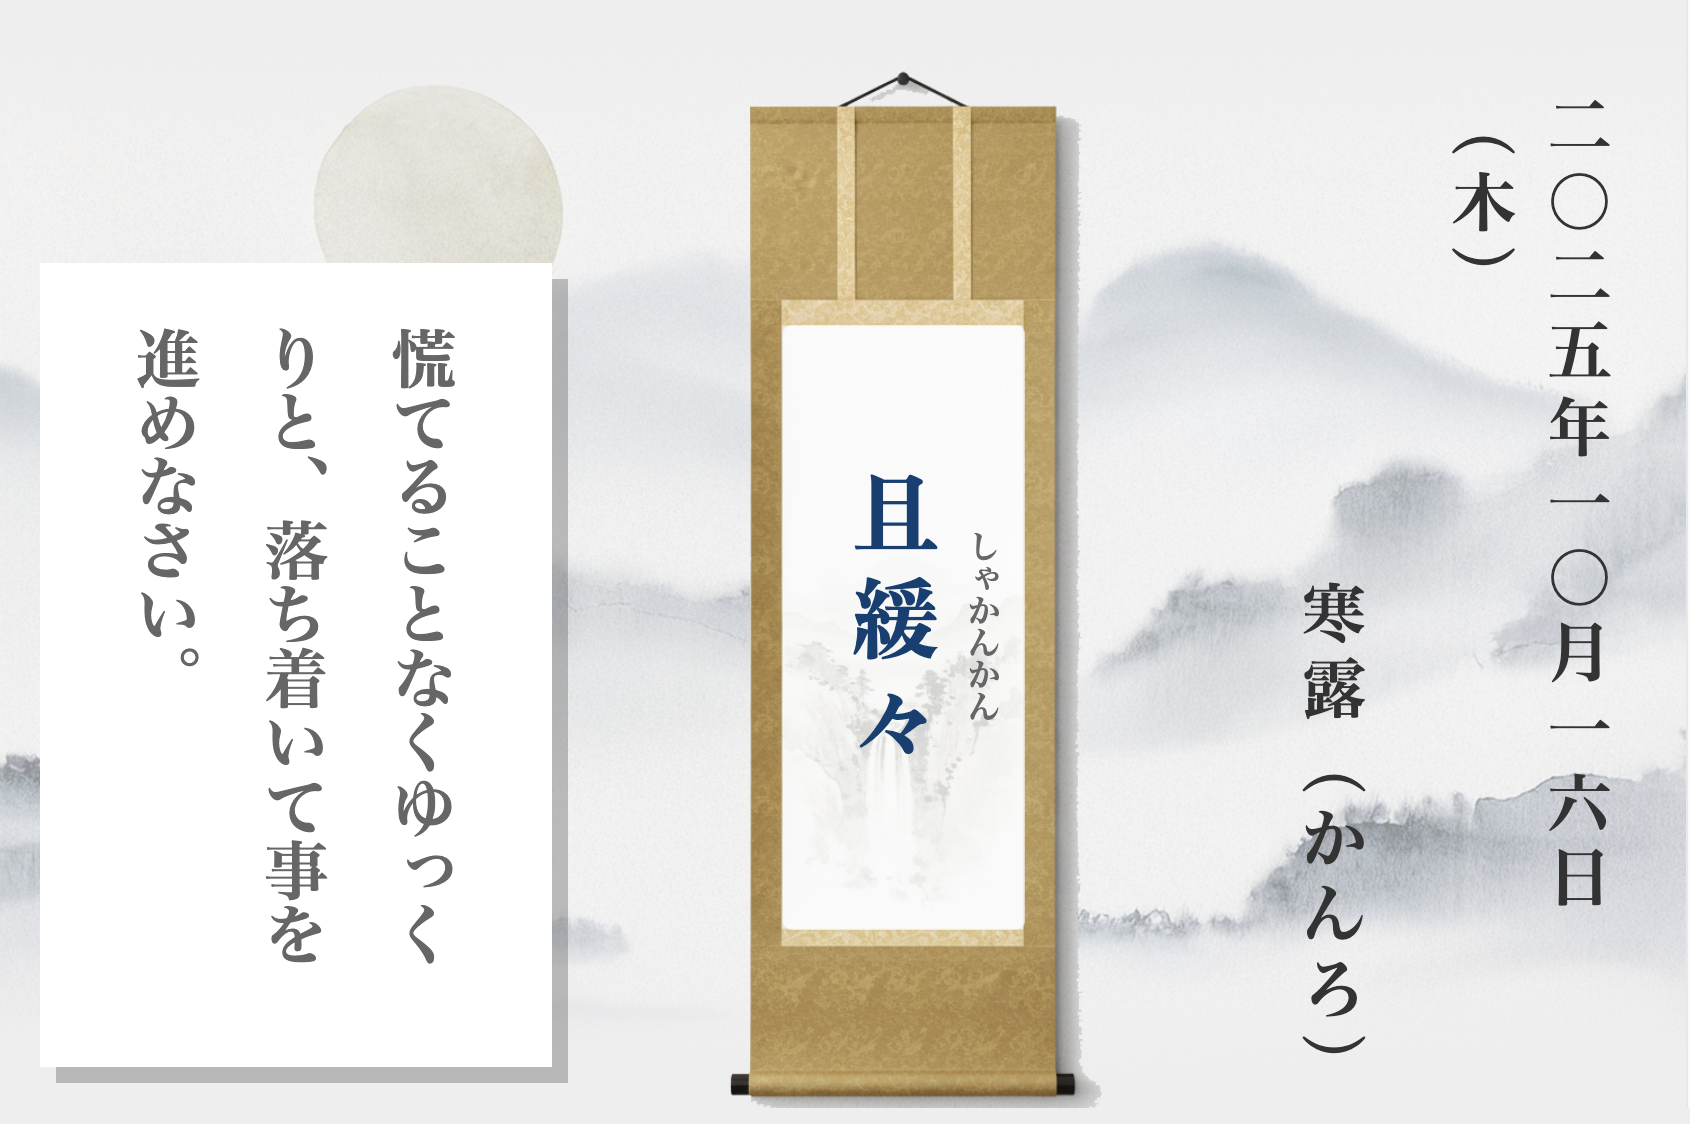
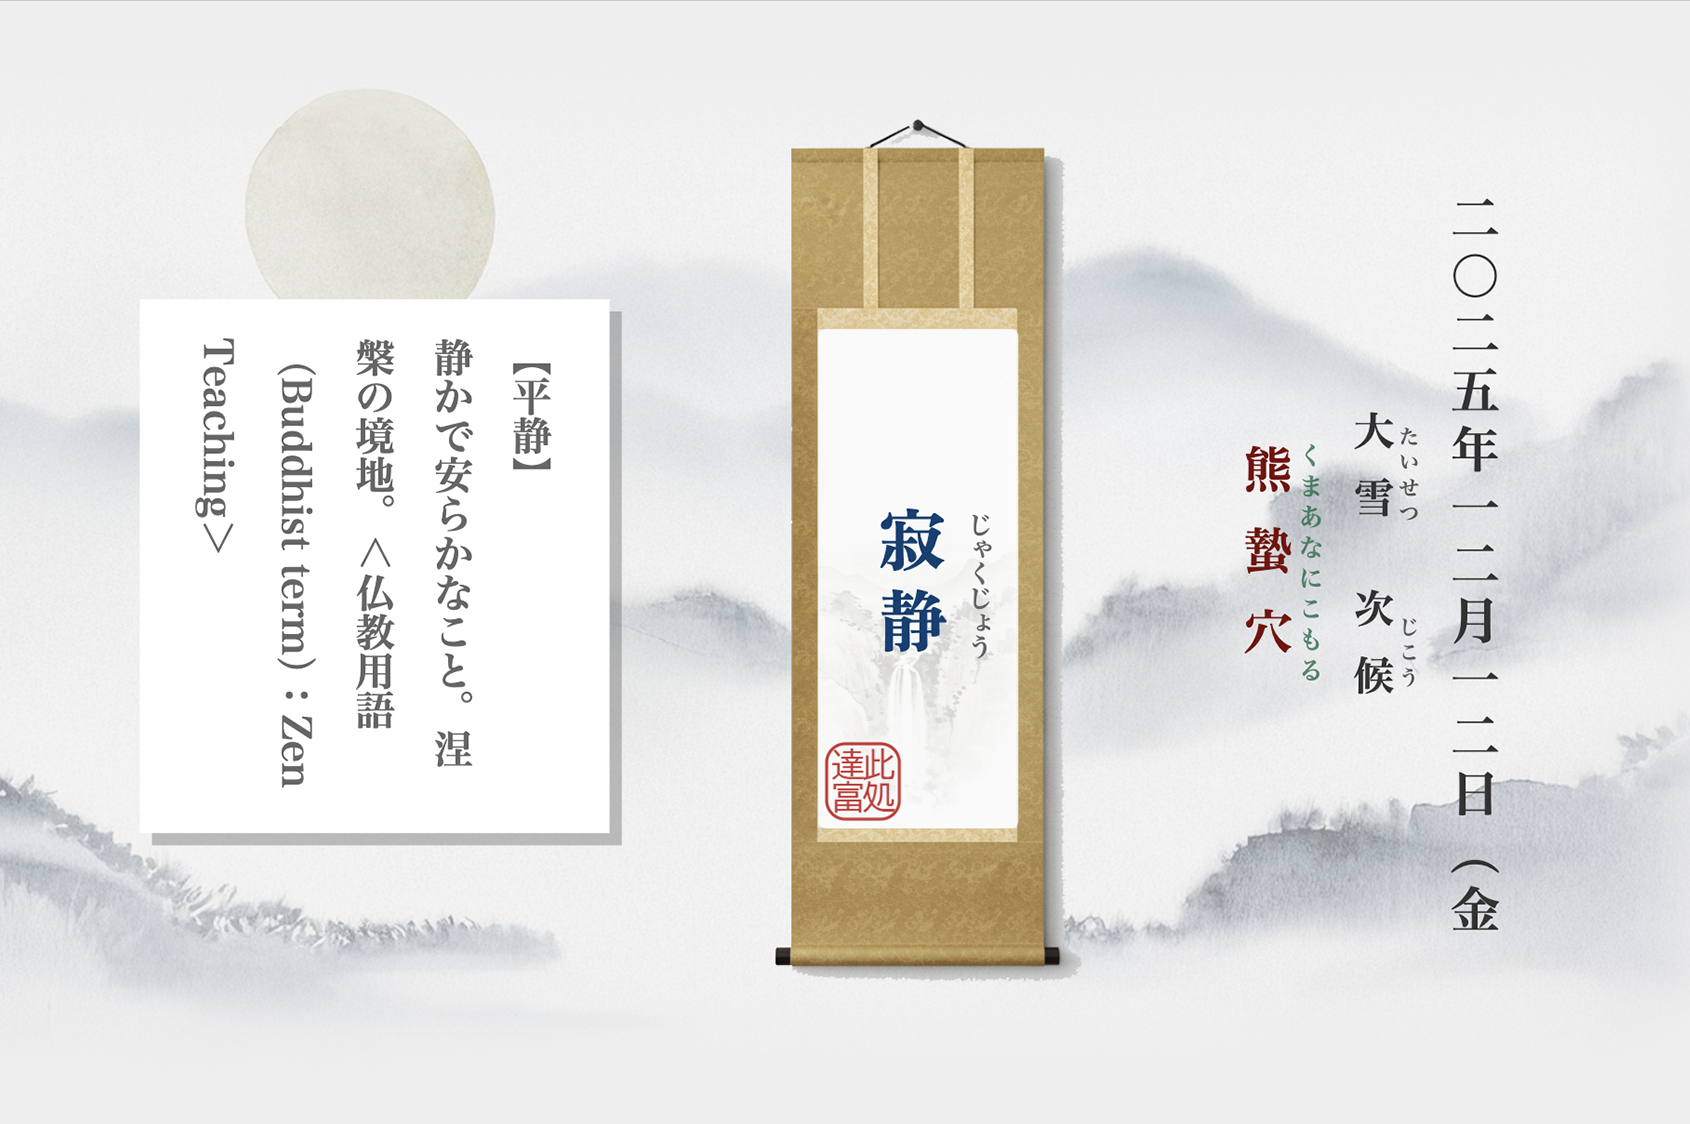
Update README.md and images folder

diff --git a/README.md b/README.md
@@ -25,7 +25,7 @@
 
 1. `index.html`をブラウザで開くだけでお使いいただけます
 2. 毎日異なる禅語が自動的に表示されます
-3. 季節に応じて二十四節気も自動更新されます
+3. 季節に応じて二十四節気七十二候も自動更新されます
 4. シンプルで直感的なデザインで、すぐに心を整える時間を始められます
 
 ## 🛠 技術仕様
